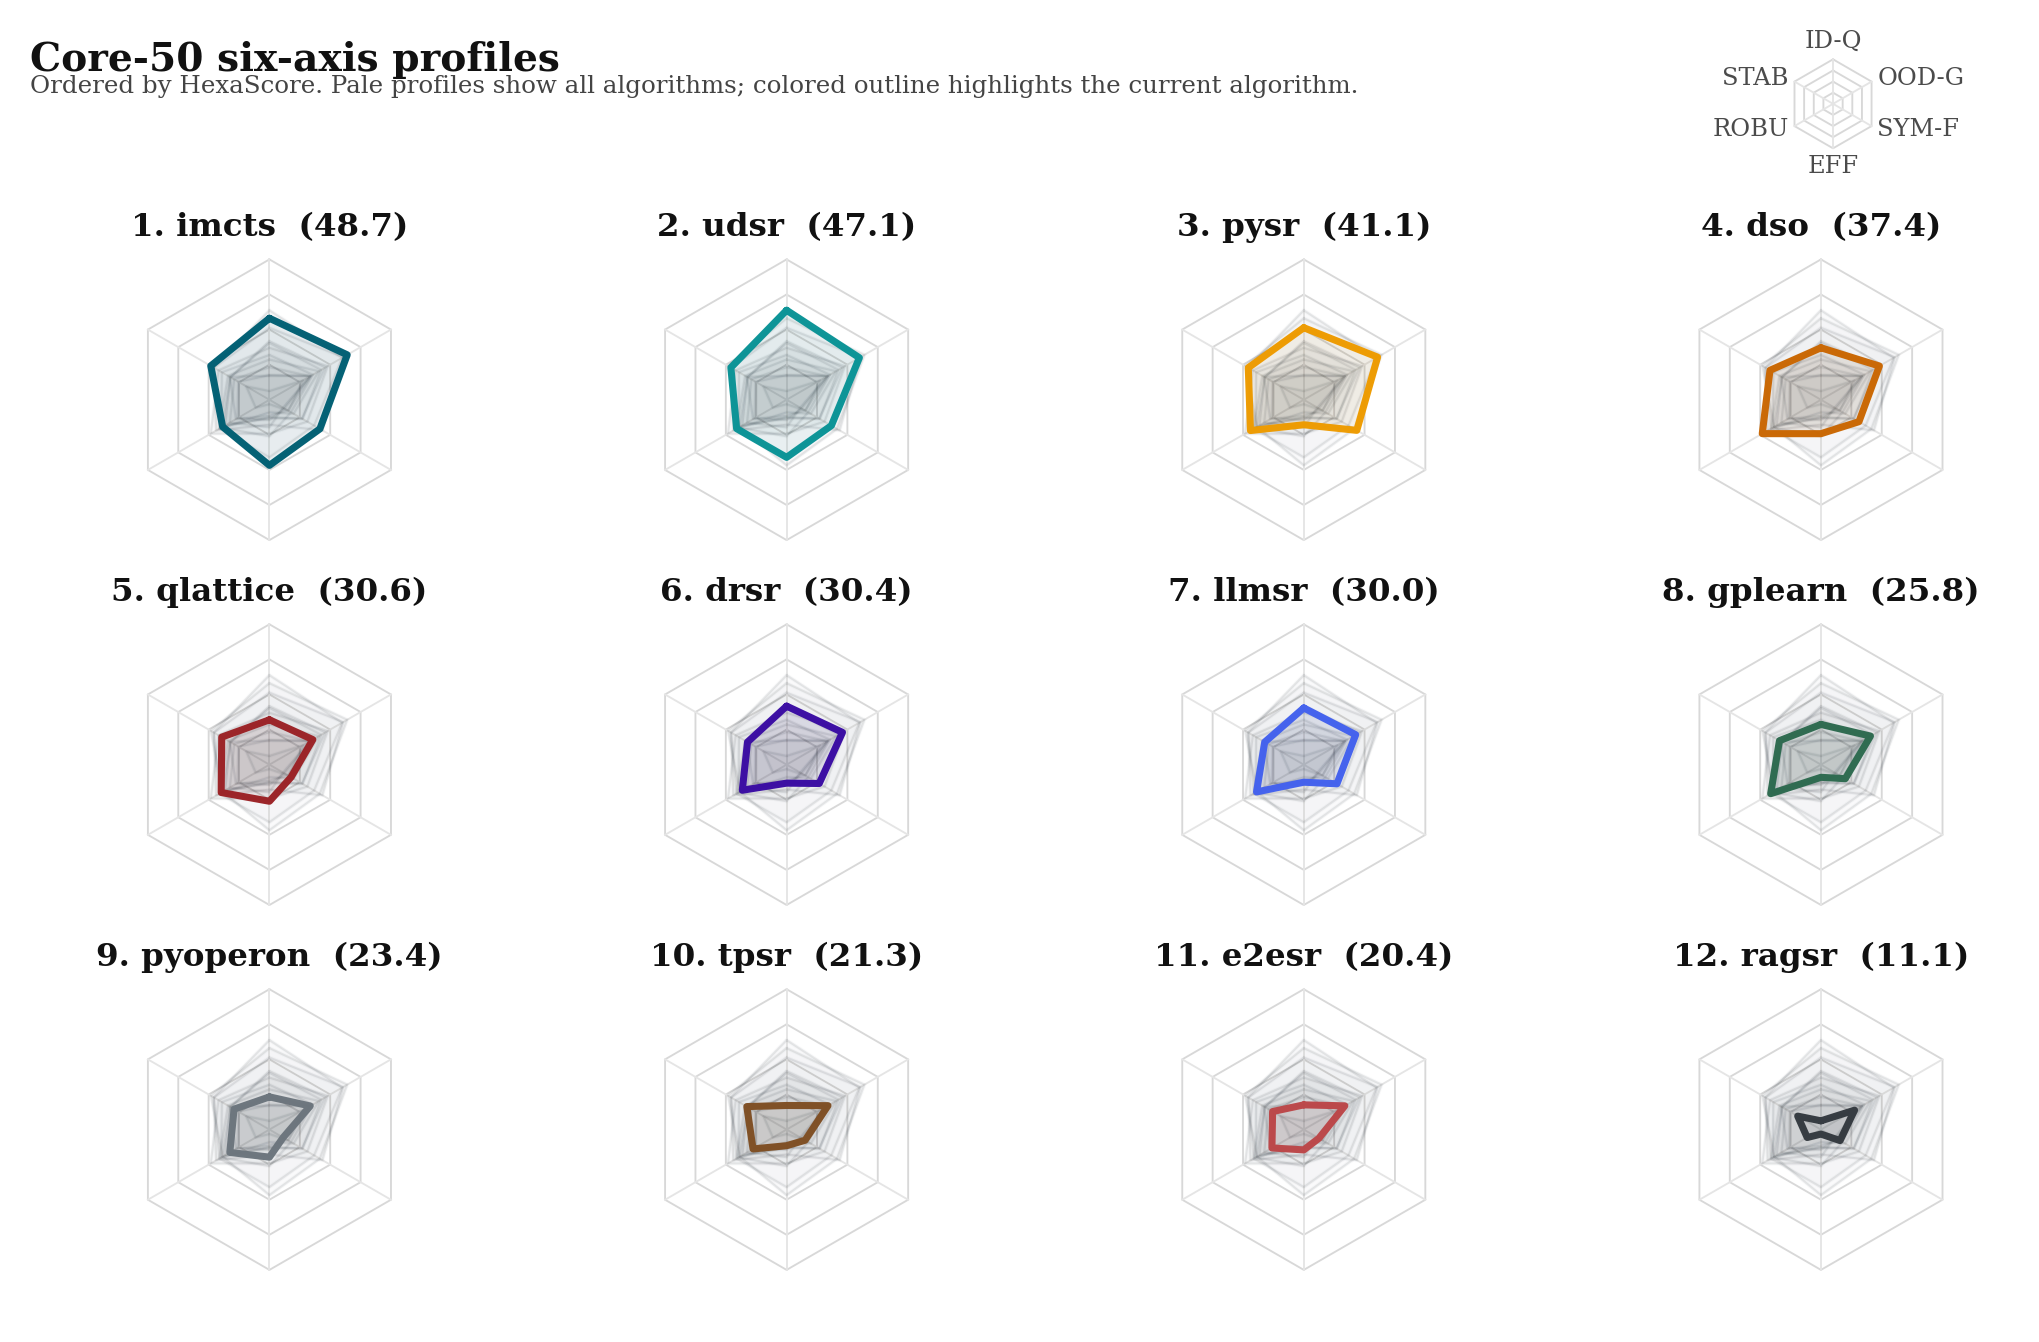
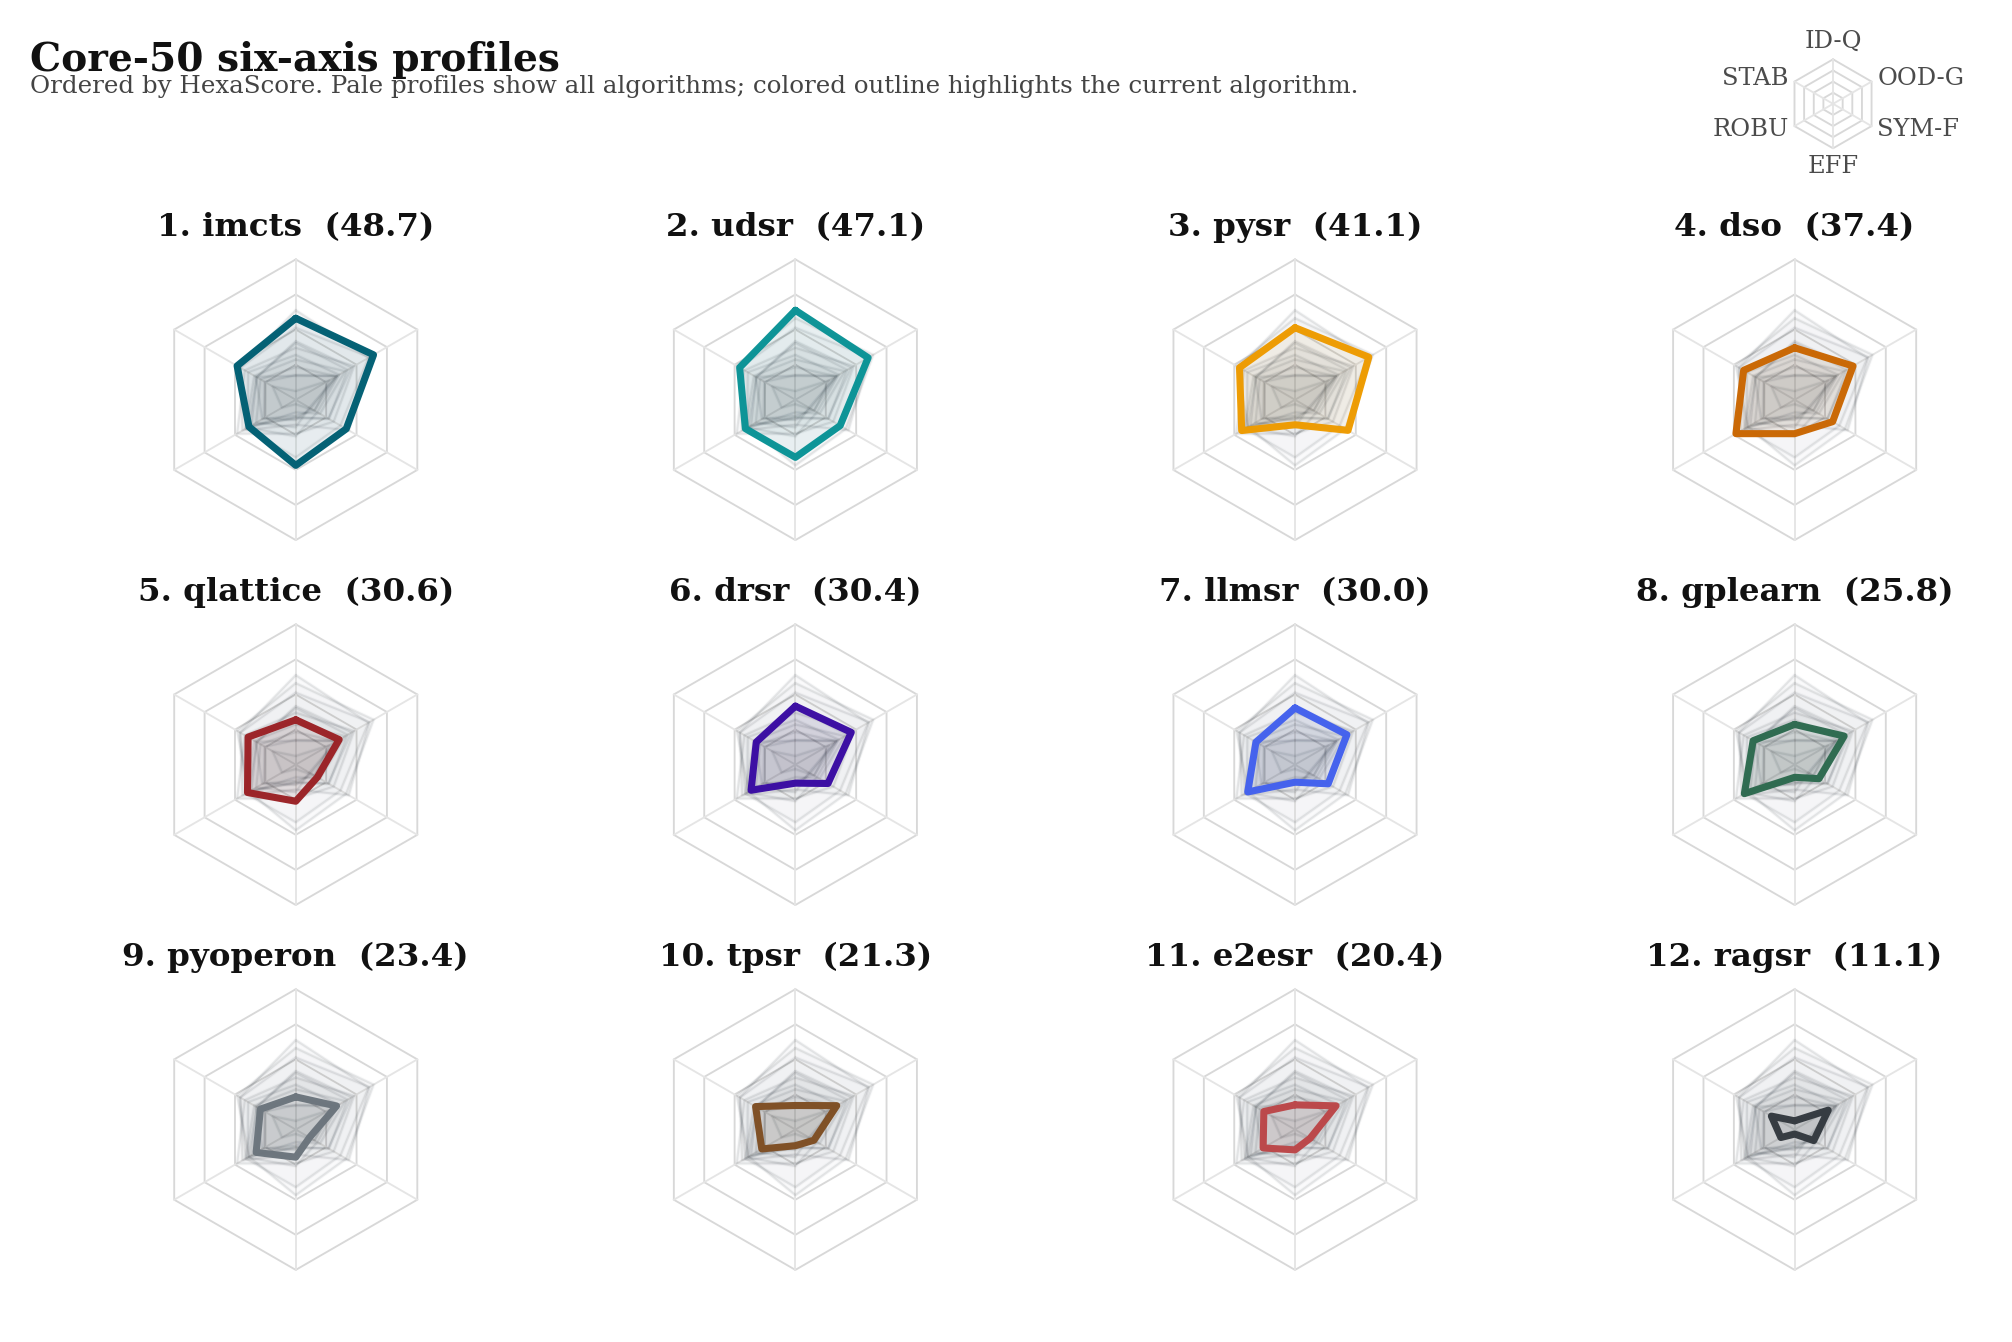
[update] 收紧竖版六轴小多图列距

diff --git a/check/plot_hexagon_small_multiples_neurips.py b/check/plot_hexagon_small_multiples_neurips.py
@@ -109,7 +109,14 @@ def draw_axis_key(fig: plt.Figure, angles: np.ndarray) -> None:
     key_ax.axis("off")
 
 
-def render_small_multiples(df: pd.DataFrame, angles: np.ndarray, *, out_name: str, orientation: str) -> dict[str, object]:
+def render_small_multiples(
+    df: pd.DataFrame,
+    angles: np.ndarray,
+    *,
+    out_name: str,
+    orientation: str,
+    wspace: float = 0.08,
+) -> dict[str, object]:
     values = df[AXES].to_numpy(dtype=float)
     algorithms = df["algorithm"].astype(str).tolist()
     scores = df[SCORE_COL].to_numpy(dtype=float)
@@ -168,7 +175,7 @@ def render_small_multiples(df: pd.DataFrame, angles: np.ndarray, *, out_name: st
         fontsize=5.9,
         color="#444444",
     )
-    fig.subplots_adjust(left=0.025, right=0.985, top=0.850, bottom=0.030, wspace=0.08, hspace=0.00)
+    fig.subplots_adjust(left=0.025, right=0.985, top=0.850, bottom=0.030, wspace=wspace, hspace=0.00)
 
     ANALYSIS_OUT.mkdir(parents=True, exist_ok=True)
     PAPER_IMGS.mkdir(parents=True, exist_ok=True)
@@ -224,6 +231,7 @@ def main() -> None:
             point_up_angles,
             out_name="fig_hexagon_small_multiples_neurips.png",
             orientation="point_up",
+            wspace=-0.06,
         ),
         render_small_multiples(
             df,
